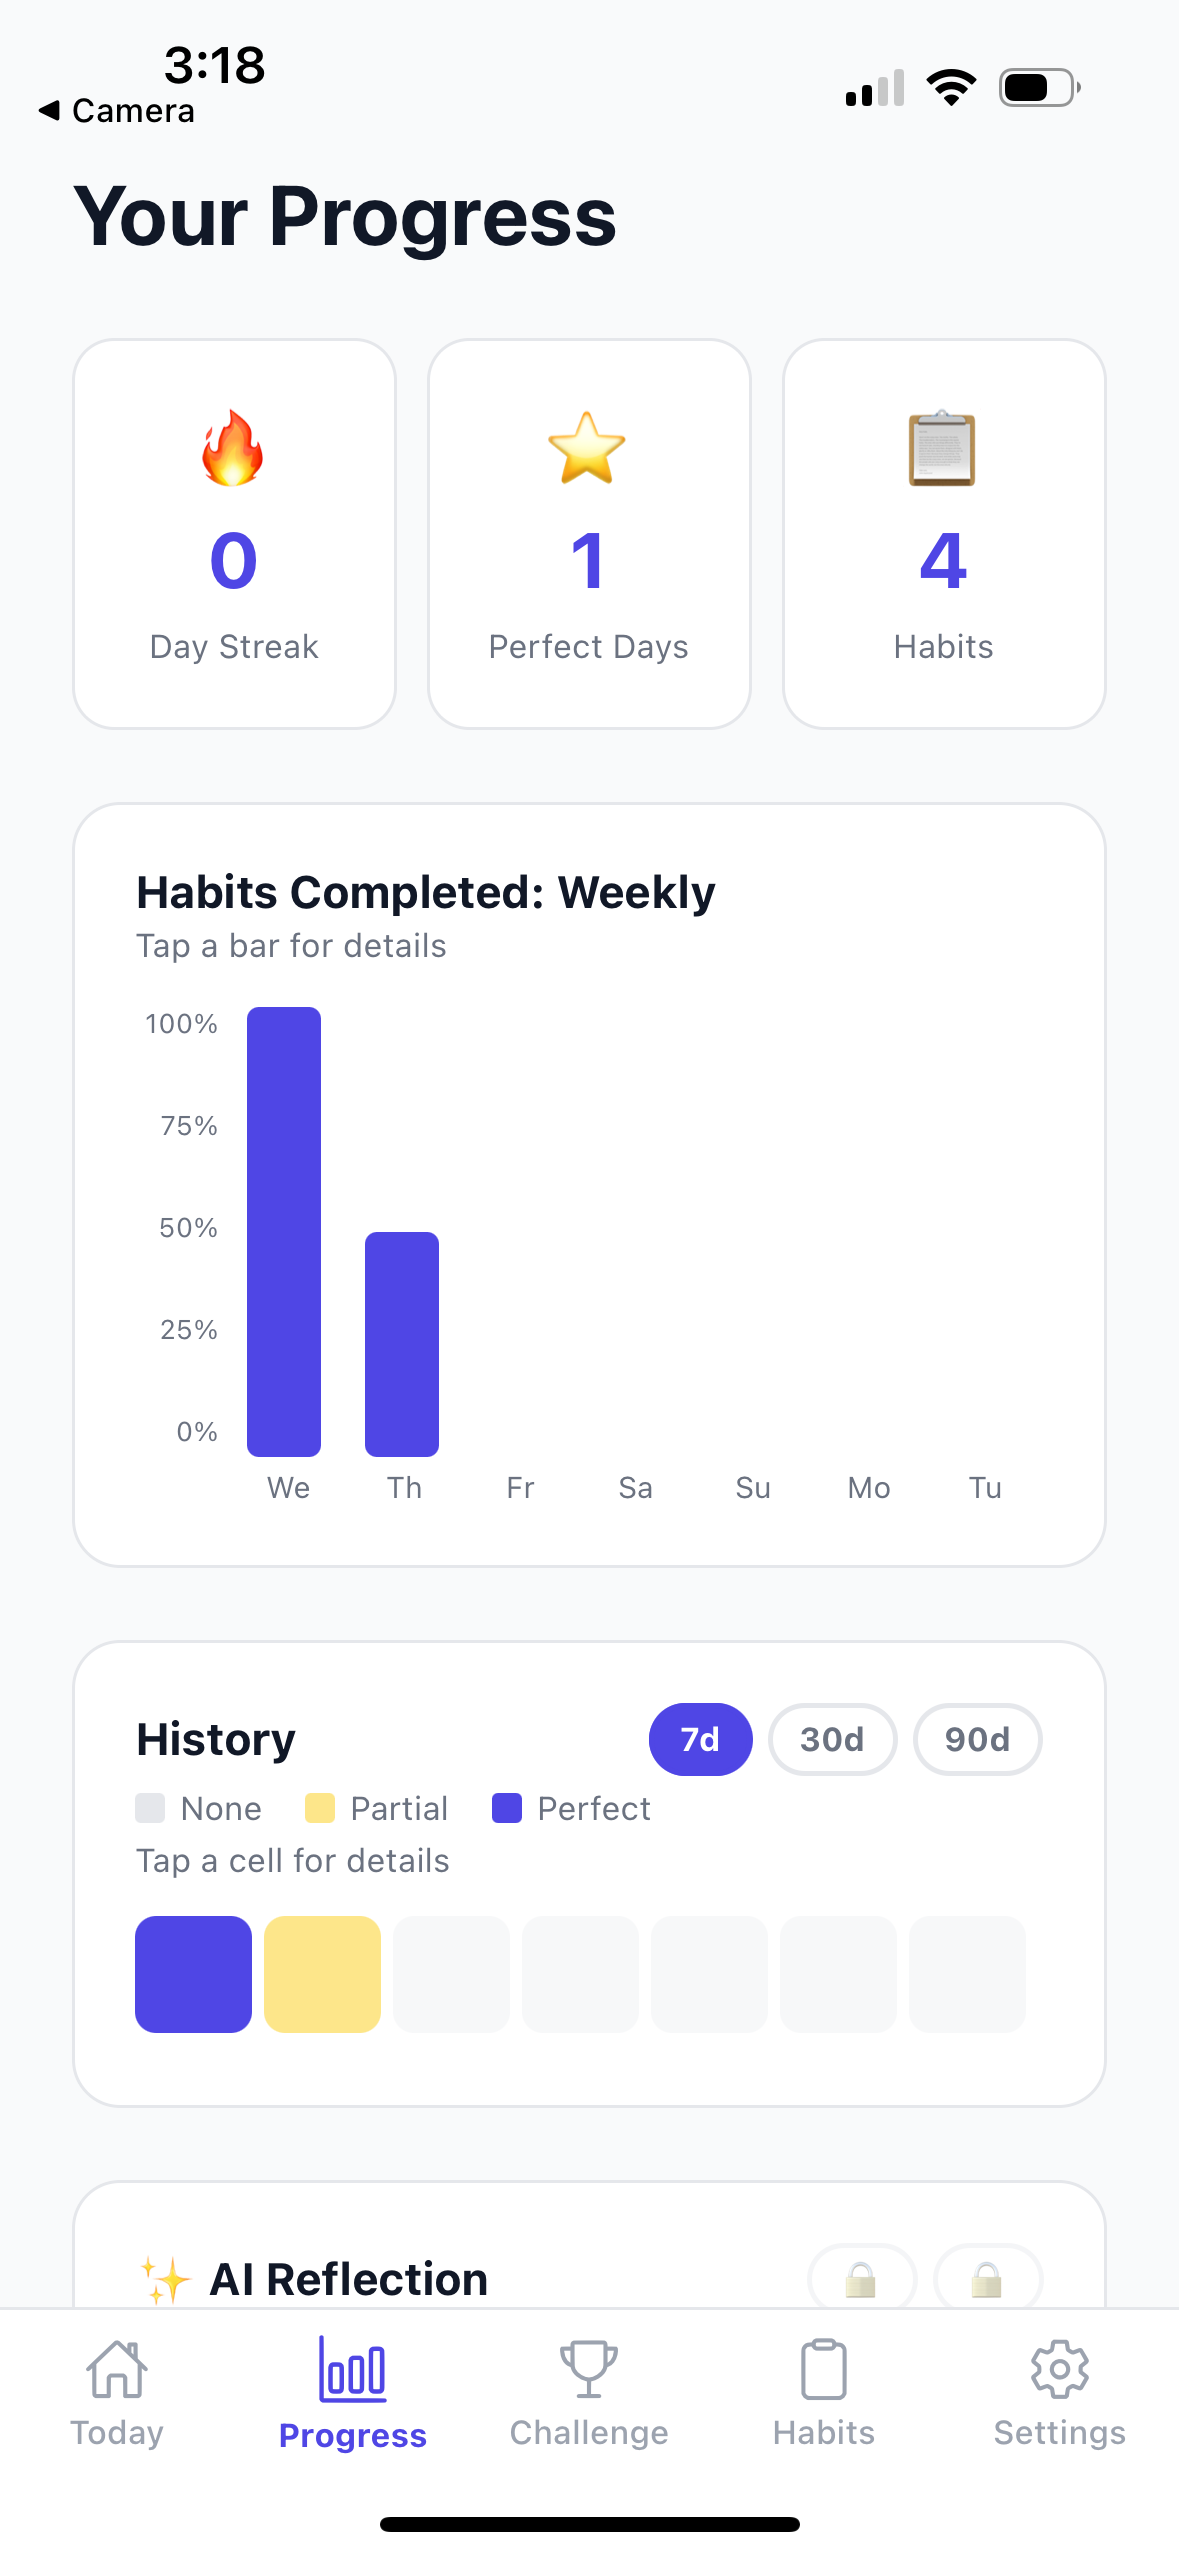
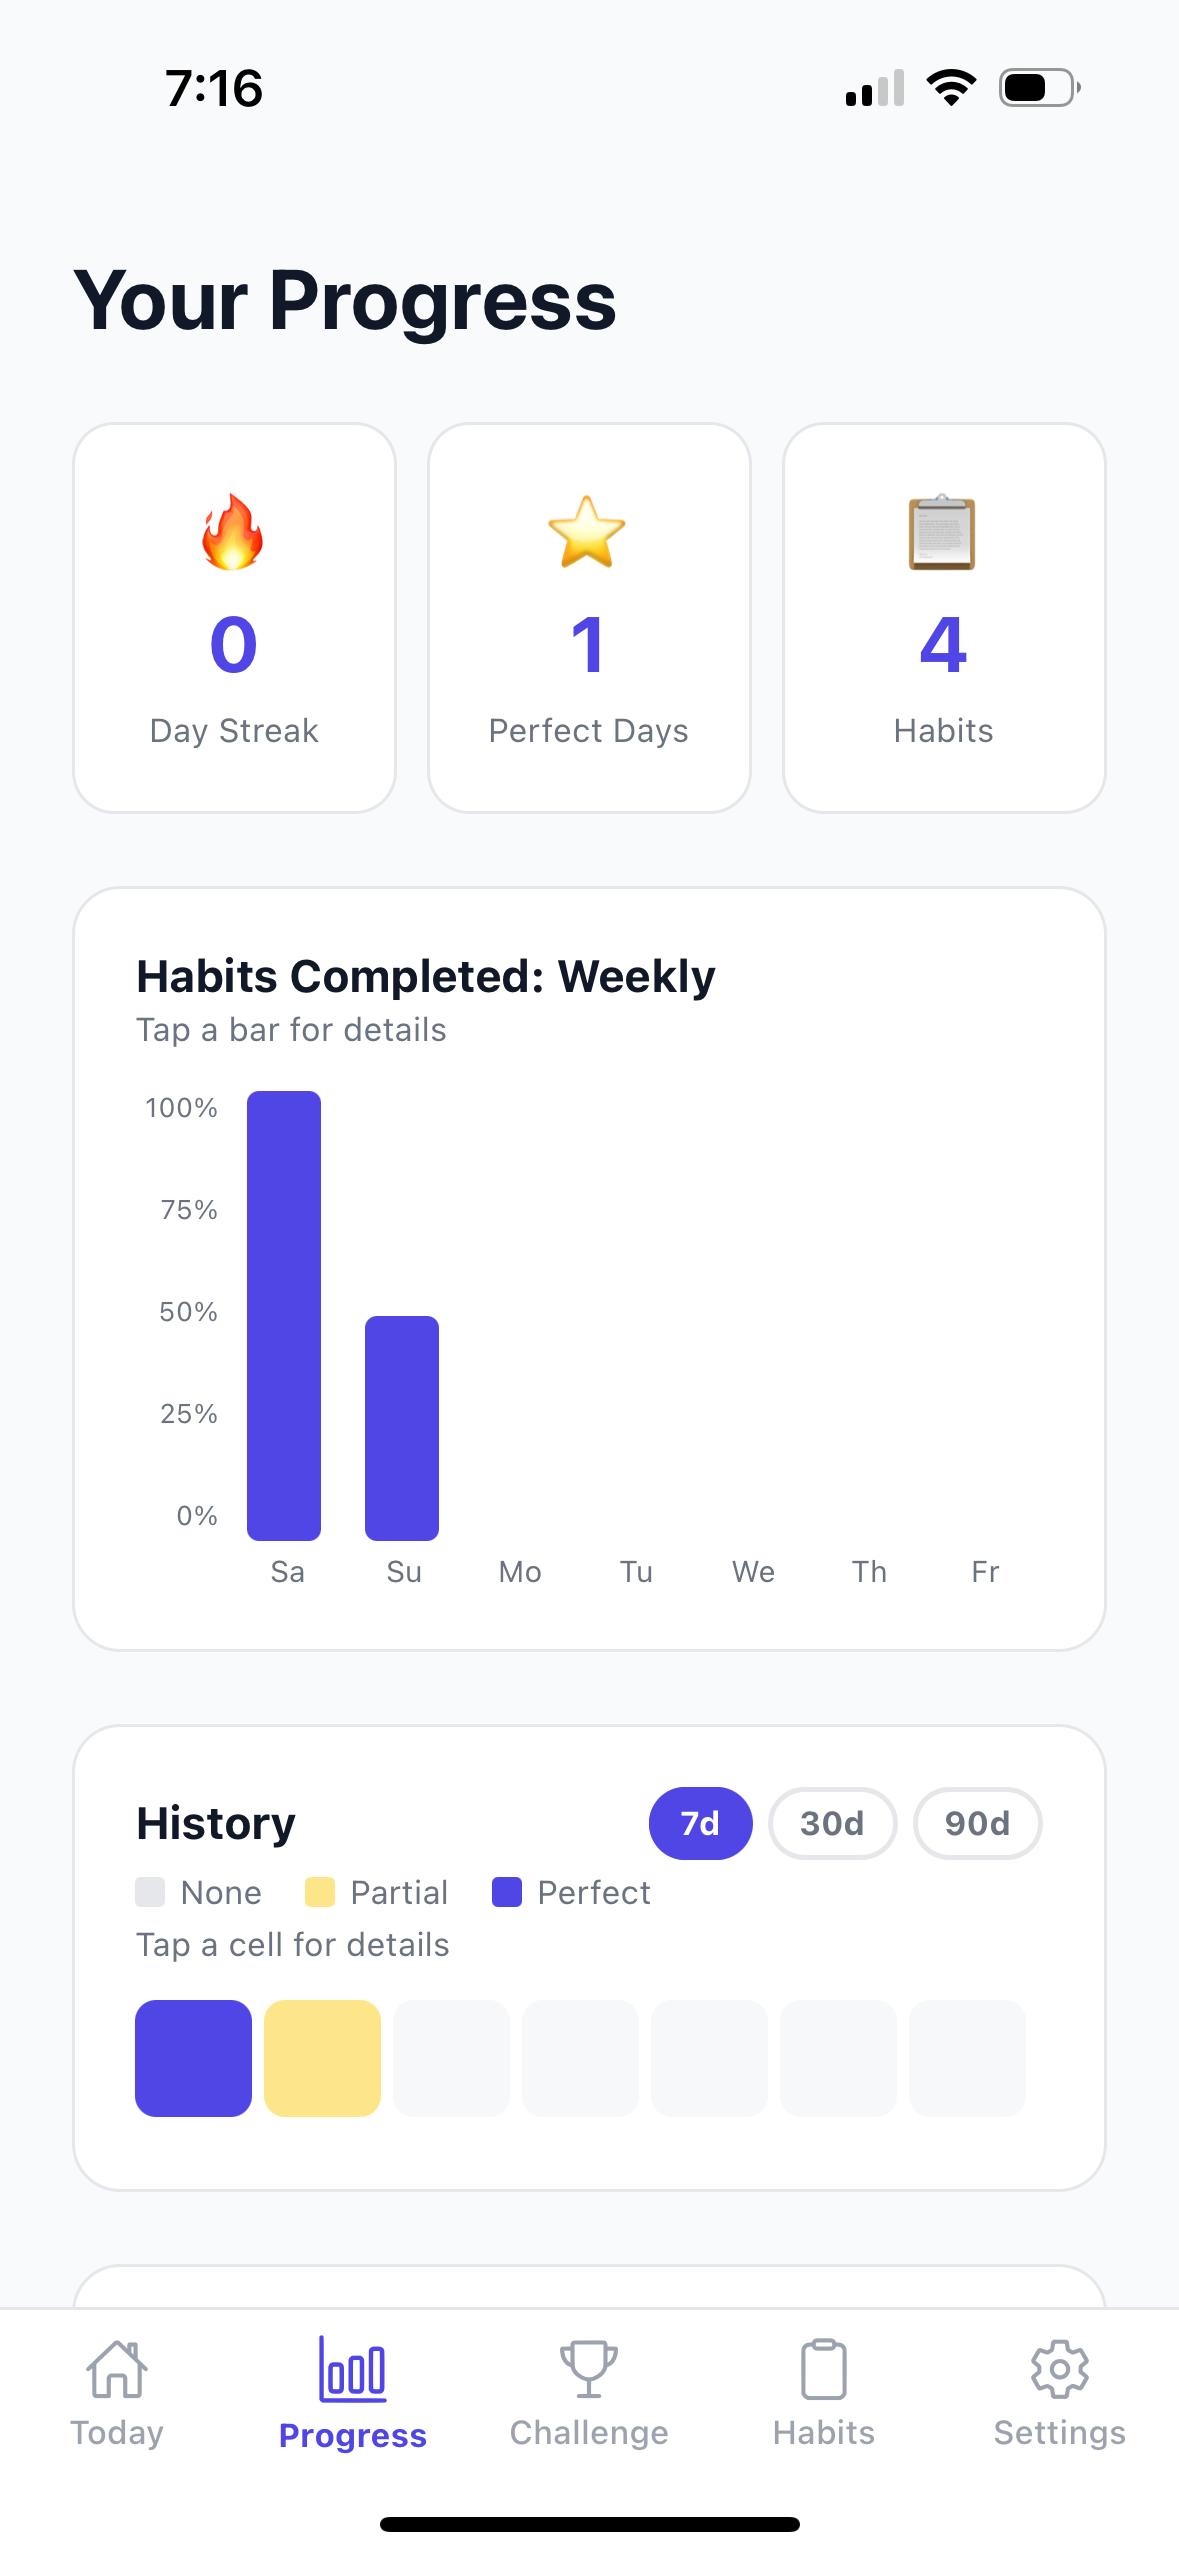
feat: add in-app account deletion and password reset instructions to privacy, support, and terms pages

diff --git a/privacy-policy.html b/privacy-policy.html
@@ -91,7 +91,8 @@
 
     .hero p {
       font-size: 16px;
-      opacity: 0.85;
+      opacity: 1;
+      color: #fff;
       max-width: 520px;
       margin: 0 auto;
     }
@@ -436,8 +437,8 @@
   <section id="deletion">
     <h2><span class="section-num">8</span> Deleting Your Account &amp; Data</h2>
     <p>You can delete your account and all associated data at any time using either method below.</p>
-    <div class="callout"><strong>Option 1 — Delete in-app (immediate):</strong> Open Groov, go to <strong>Settings → Delete Account</strong>, and confirm. Your account and all data are deleted instantly.</div>
-    <div class="warn-callout"><strong>Option 2 — Email request:</strong> Email <a href="mailto:[email redacted]" style="color:#92400E;font-weight:600;">[email redacted]</a> with the subject line "Delete My Account" and the email address associated with your account. We will complete the deletion within 30 days and confirm via email.</div>
+    <div class="callout"><strong>Option 1: Delete in-app (immediate).</strong> Open Groov, go to <strong>Settings → Delete Account</strong>, and confirm. Your account and all data are deleted instantly.</div>
+    <div class="warn-callout"><strong>Option 2: Email request.</strong> Email <a href="mailto:[email redacted]" style="color:#92400E;font-weight:600;">[email redacted]</a> with the subject line "Delete My Account" and the email address associated with your account. We will complete the deletion within 30 days and confirm via email.</div>
     <p>Upon deletion, the following data is permanently removed from our systems:</p>
     <ul>
       <li>Your account credentials and email address</li>

diff --git a/support.html b/support.html
@@ -303,7 +303,7 @@
 
       <div class="warn-callout">⚠️ <strong>Deletion is permanent and cannot be undone.</strong> Your streak history, challenge progress, and all habit data will be gone forever.</div>
 
-      <p><strong>Option 1 — Delete in-app (recommended)</strong></p>
+      <p><strong>Option 1: Delete in-app (recommended)</strong></p>
       <ol class="step-list">
         <li>
           <span class="step-num">1</span>
@@ -319,7 +319,7 @@
         </li>
       </ol>
 
-      <p style="margin-top:20px;"><strong>Option 2 — Email request</strong></p>
+      <p style="margin-top:20px;"><strong>Option 2: Email request</strong></p>
       <p>If you can't access the app, you can also request deletion by email:</p>
       <ol class="step-list">
         <li>
@@ -394,7 +394,7 @@
 
       <div class="faq-item">
         <p class="faq-q">How do I reset my password?</p>
-        <p class="faq-a">You can reset your password two ways: from the <strong>Settings screen</strong> inside the app, or from the login screen by tapping <strong>"Forgot password?"</strong> and entering your email address. You'll receive a password reset link within a few minutes — check your spam folder if it doesn't arrive.</p>
+        <p class="faq-a">You can reset your password two ways: from the <strong>Settings screen</strong> inside the app, or from the login screen by tapping <strong>"Forgot password?"</strong> and entering your email address. You'll receive a password reset link within a few minutes. Check your spam folder if it doesn't arrive.</p>
       </div>
 
       <div class="faq-item">